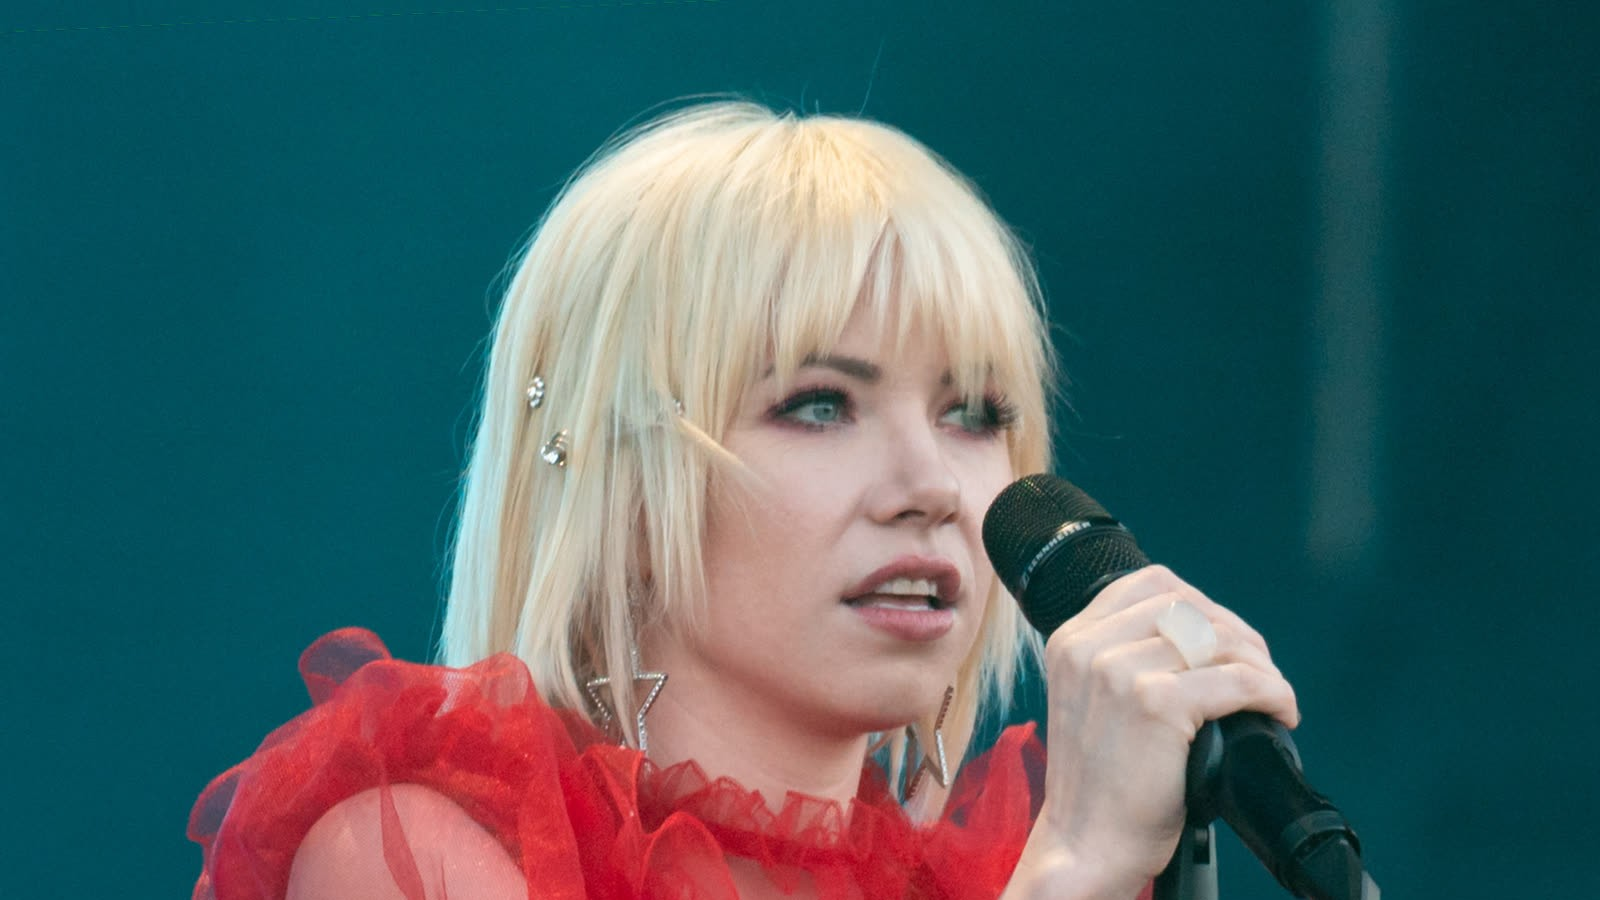
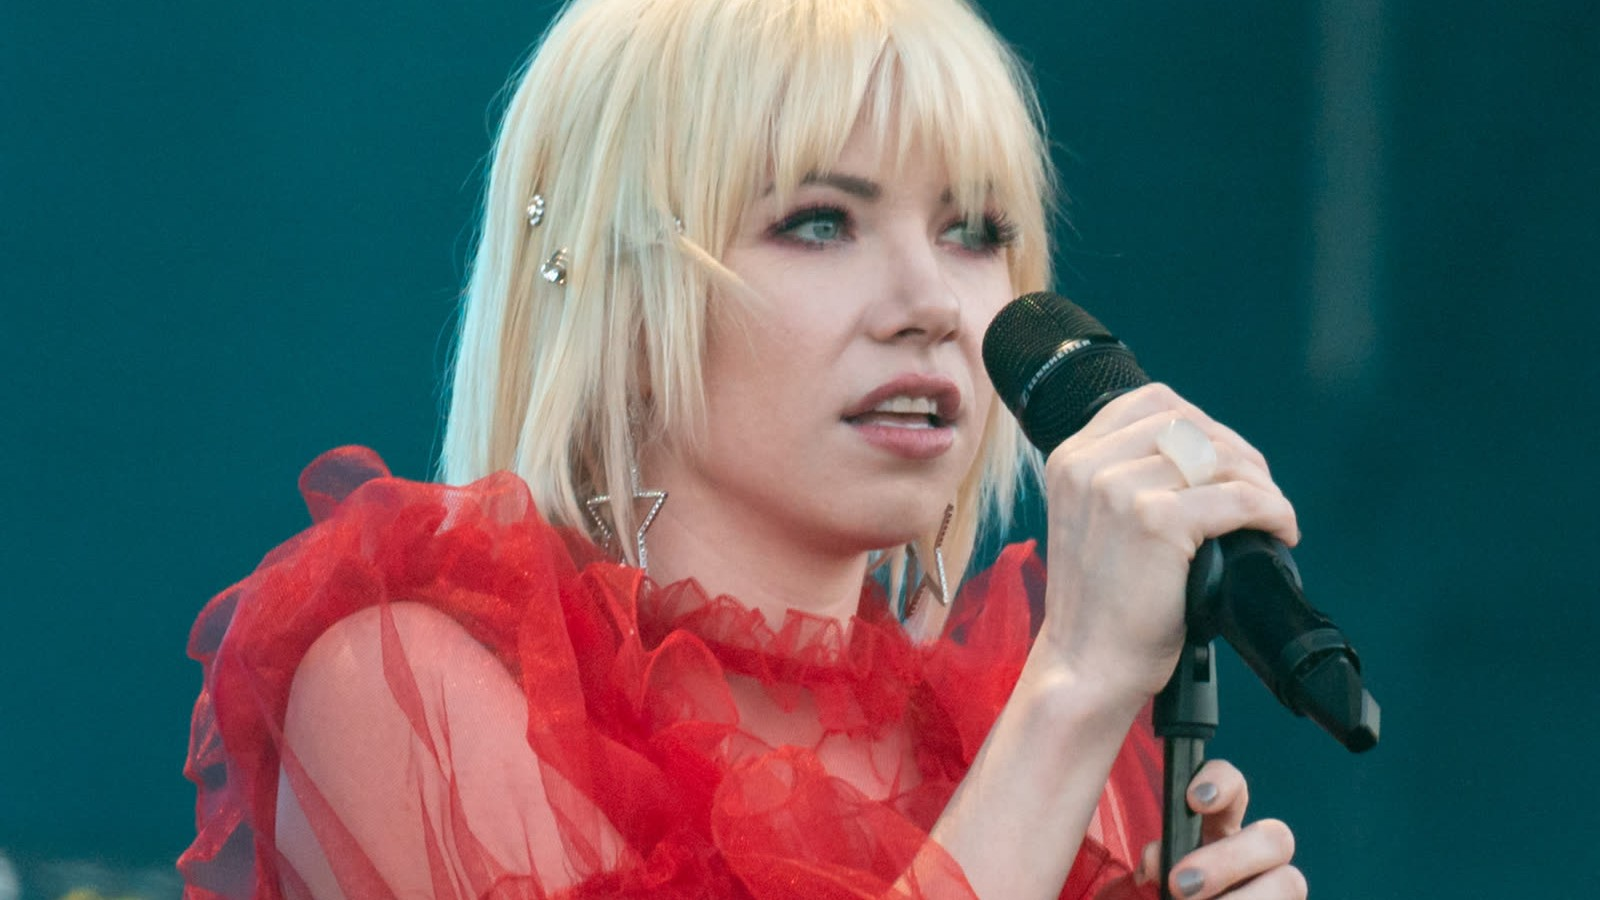
Tighten close-up covers so hair sits at the top of the frame.
The face crop now hangs a large face from the top of the 16:9 banner instead of leaving a strip of empty sky above the head.

diff --git a/public/index.html b/public/index.html
@@ -4,7 +4,7 @@
 <meta charset="utf-8">
 <meta name="viewport" content="width=device-width, initial-scale=1">
 <title>music98.news — Music News, Releases & Charts</title>
-<meta name="m98-build" content="editorial-24">
+<meta name="m98-build" content="editorial-25">
 <meta name="description" content="music98.news — music news, new releases and a weekly Top 50.">
 <meta name="theme-color" content="#ffffff">
 <link rel="preconnect" href="https://itunes.apple.com">

diff --git a/scripts/face_covers.py b/scripts/face_covers.py
@@ -1,5 +1,9 @@
 #!/usr/bin/env python3
-"""Cut 16:9 cover stills centred on the detected face, keeping the whole head."""
+"""Cut 16:9 cover stills on the detected face.
+
+Keep the whole head. On a close-up, hang the hair from the top of the
+frame so there is no empty strip of sky above it.
+"""
 from __future__ import annotations
 
 import urllib.request
@@ -43,20 +47,26 @@ def crop_to_face(im, face):
     H, W = im.shape[:2]
     x, y, fw, fh = face
     cx = x + fw / 2
-    cy = y + fh * 0.42
-    hair = y - 0.55 * fh
-    chin = y + fh + 0.22 * fh
-    need_h = max(chin - hair, W / ASPECT)
-    need_w = need_h * ASPECT
-    if need_w > W:
-        need_w = float(W)
-        need_h = need_w / ASPECT
-    left = cx - need_w / 2
-    top = cy - need_h / 2
-    if top > hair:
+    need_w = float(W)
+    need_h = need_w / ASPECT
+    if need_h > H:
+        need_h = float(H)
+        need_w = need_h * ASPECT
+    closeup = fh > 0.32 * need_h
+    hair_pad = (0.10 if closeup else 0.45) * fh
+    chin_pad = 0.18 * fh
+    hair = y - hair_pad
+    chin = y + fh + chin_pad
+    if closeup:
         top = hair
+    else:
+        cy = y + fh * 0.42
+        top = cy - need_h / 2
+        if top > hair:
+            top = hair
     if top + need_h < chin:
         top = chin - need_h
+    left = cx - need_w / 2
     left = max(0.0, min(left, W - need_w))
     top = max(0.0, min(top, H - need_h))
     x0, y0 = int(round(left)), int(round(top))
